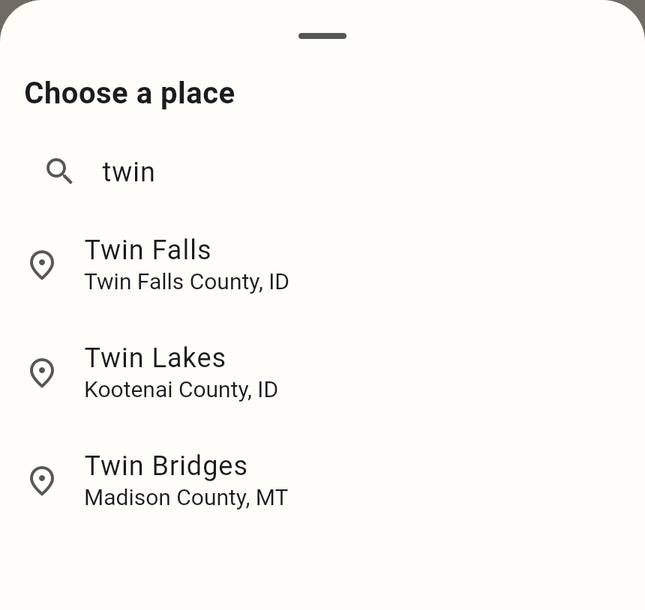
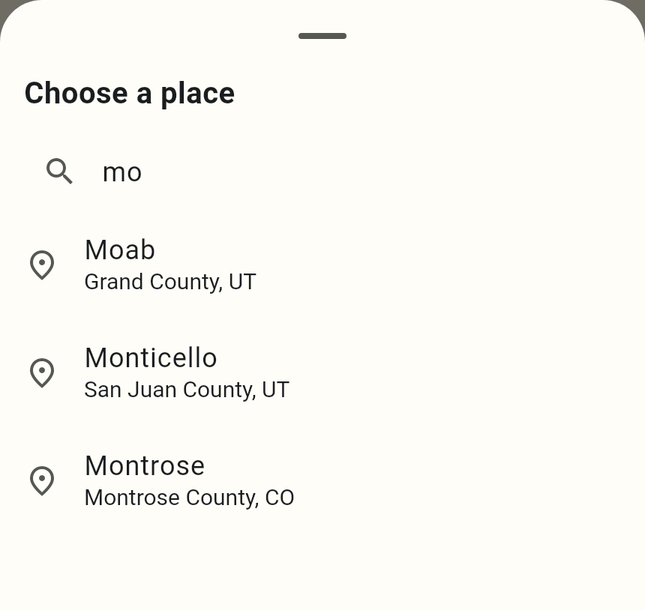
Guide: the eleven map pictures are back in the chapters and in the app
The Maps pictures and the place form's picture, drawn over the real map of
the sample park, are in the app's guide pictures again, and their lines are
back in chapters 1, 2 and 5 (docs and the app's copy). The pictures whose
sample data moved to the park are replaced as well: Home, Home search, the
set up card, the chat list, the navigation answer, weather, the place
chooser, the places list and a place's alert choices.

The rendered maps and their lock file are committed, so a run whose scenes
have not changed asks for no tile. The two ring pictures are drawn over the
directions scene, which is the same map.

Claude-Session: https://claude.ai/code/session_01K18o7Emoc7jpUGguZ4qC7q

diff --git a/app/test_shots/guide_shots_test.dart b/app/test_shots/guide_shots_test.dart
@@ -1508,19 +1508,21 @@ void main() {
     m.r.maps.setFollow(FollowMode.free);
 
     // The ring, with a route shown (so it offers Add stop): the phone is where the drive begins again, the drive is asked for
-    // and the screen fits it into view, as in the directions picture. Then the notebook ring after Save.
+    // and the screen fits it into view. The map then shows what it shows in the directions picture, so these two pictures are
+    // drawn over that scene (if the map ever differs here, its picture no longer matches the scene and the test says so). Then
+    // the notebook ring after Save.
     m.r.location.publish(fixAt(start.lat, start.lon, heading: m.sample.routeStartHeading));
     await settle(tester);
     m.kit.movedTo(GuideCamera(lat: start.lat, lon: start.lon, zoom: 14));
     await tester.runAsync(() => m.nav.openDirections(GuideSample.trailhead));
     await settle(tester);
     await holdMap(tester, m, GuideSample.ringSpot);
-    await mapShot(tester, m, 'map-ring', 'ring');
+    await mapShot(tester, m, 'map-ring', 'directions');
 
     RingMenu ring() => tester.widget<RingMenu>(find.byKey(const ValueKey('ring-menu')));
     ring().onPick(const RingItem(id: 'save', label: 'Save', icon: Icons.book_outlined));
     await settle(tester);
-    await mapShot(tester, m, 'map-notebook-ring', 'notebook-ring');
+    await mapShot(tester, m, 'map-notebook-ring', 'directions');
 
     // Measure: the route is put away, the map is moved to the place card's view, and three points are measured there.
     await tester.tapAt(const Offset(30, 200));

diff --git a/app/assets/guide/chapters/ch2.md b/app/assets/guide/chapters/ch2.md
@@ -315,6 +315,8 @@ To delete all chats, go to ["Settings" > "Cache model and web search" > "Delete 
 
 Search finds a place, town, address or coordinates.
 
+![Map search results](shot:maps-search)
+
 1. Open "Maps".
 2. Tap "Search places or coordinates" and type.
 3. Tap a result. The map moves there and the place card opens.
@@ -328,6 +330,8 @@ The locate button ("Find me") moves the map to you. Tap it again to turn the map
 ## The place card and saving a place
 
 Tap a search result or a place to open its card at the bottom of "Maps".
+
+![A place card](shot:place-card)
 
 The card has:
 - "Directions": a route from where you are;
@@ -347,6 +351,8 @@ Press and hold on the map for the ring menu. It has "Add stop" and "Measure". Se
 
 Directions plan a route from where you are to a place.
 
+![The directions panel](shot:directions-panel)
+
 1. In "Maps", open a place's card. Or press and hold the map and choose "To here".
 2. Tap "Directions".
 3. Choose "Drive", "Walk", "Bike" or "Off-road".
@@ -362,6 +368,8 @@ Road directions work offline if the region is downloaded.
 ## Off-road directions
 
 Off-road plans a route away from roads.
+
+![Off-road directions](shot:directions-offroad)
 
 1. Open a place's card and tap "Directions".
 2. Tap "Off-road".
@@ -382,6 +390,8 @@ Changing a choice plans the route again. Choices reset on restart: "Drive", then
 
 After "Start", Cache guides you turn by turn.
 
+![Following a route](shot:guidance)
+
 - The banner shows the next turn.
 - "Rerouting" means you left the route.
 - Near the end it says "Arriving", then "You have arrived".
@@ -396,6 +406,8 @@ Guidance keeps running with the screen locked. On Android a "Cache navigation" n
 ## Map layers and offline maps
 
 The "Layers" button on the right of "Maps" opens the layers sheet.
+
+![The layers sheet](shot:layers-sheet)
 
 - Switch a layer on or off. Its line says "Downloaded for offline", "Streams when online" or "Needs a connection".
 - Use "Opacity" for a layer laid over the map.

diff --git a/docs/guide/ch2.md b/docs/guide/ch2.md
@@ -315,6 +315,8 @@ To delete all chats, go to ["Settings" > "Cache model and web search" > "Delete 
 
 Search finds a place, town, address or coordinates.
 
+![Map search results](shot:maps-search)
+
 1. Open "Maps".
 2. Tap "Search places or coordinates" and type.
 3. Tap a result. The map moves there and the place card opens.
@@ -328,6 +330,8 @@ The locate button ("Find me") moves the map to you. Tap it again to turn the map
 ## The place card and saving a place
 
 Tap a search result or a place to open its card at the bottom of "Maps".
+
+![A place card](shot:place-card)
 
 The card has:
 - "Directions": a route from where you are;
@@ -347,6 +351,8 @@ Press and hold on the map for the ring menu. It has "Add stop" and "Measure". Se
 
 Directions plan a route from where you are to a place.
 
+![The directions panel](shot:directions-panel)
+
 1. In "Maps", open a place's card. Or press and hold the map and choose "To here".
 2. Tap "Directions".
 3. Choose "Drive", "Walk", "Bike" or "Off-road".
@@ -362,6 +368,8 @@ Road directions work offline if the region is downloaded.
 ## Off-road directions
 
 Off-road plans a route away from roads.
+
+![Off-road directions](shot:directions-offroad)
 
 1. Open a place's card and tap "Directions".
 2. Tap "Off-road".
@@ -382,6 +390,8 @@ Changing a choice plans the route again. Choices reset on restart: "Drive", then
 
 After "Start", Cache guides you turn by turn.
 
+![Following a route](shot:guidance)
+
 - The banner shows the next turn.
 - "Rerouting" means you left the route.
 - Near the end it says "Arriving", then "You have arrived".
@@ -396,6 +406,8 @@ Guidance keeps running with the screen locked. On Android a "Cache navigation" n
 ## Map layers and offline maps
 
 The "Layers" button on the right of "Maps" opens the layers sheet.
+
+![The layers sheet](shot:layers-sheet)
 
 - Switch a layer on or off. Its line says "Downloaded for offline", "Streams when online" or "Needs a connection".
 - Use "Opacity" for a layer laid over the map.

diff --git a/app/assets/guide/chapters/ch5.md b/app/assets/guide/chapters/ch5.md
@@ -122,6 +122,8 @@ You can also save a place from the map. Press and hold the map and choose "Save"
 
 Add place and Edit place are the same screen.
 
+![Editing a place](shot:places-edit)
+
 1. In the Places notebook, tap "Add place". To edit, press and hold a place.
 2. Search an address, place or coordinates, or tap the map to move the pin.
 3. Type a "Name".
@@ -148,6 +150,8 @@ A place with "Weather and alerts" on is watched. Cache keeps weather, alerts and
 ## The map ring menu
 
 Press and hold any spot on the map to open a ring. The center shows the place name and coordinates. Tap outside to close it.
+
+![The ring menu](shot:map-ring)
 
 The wedges are:
 - "To here": directions to the spot.
@@ -182,12 +186,16 @@ A route can have up to 10 stops. Each is listed under the destination with a rem
 3. Read the running total in the bar, in your units.
 4. Tap "Done" to end.
 
+![Measuring on the map](shot:map-measure)
+
 "Undo" removes the last point.
 
 ## Save a spot to a notebook
 
 1. Press and hold the map and choose "Save". The ring shows your notebooks, most used first.
 2. Tap a notebook. Its entry form opens at that spot. For "Places" it is the Add place screen with the pin there.
+
+![The notebook ring](shot:map-notebook-ring)
 
 The ring holds at most six wedges: five notebooks and "More". "More" turns to the next page, for example "2 of 3". Tap the back arrow in the center to go back.
 

diff --git a/docs/guide/ch5.md b/docs/guide/ch5.md
@@ -122,6 +122,8 @@ You can also save a place from the map. Press and hold the map and choose "Save"
 
 Add place and Edit place are the same screen.
 
+![Editing a place](shot:places-edit)
+
 1. In the Places notebook, tap "Add place". To edit, press and hold a place.
 2. Search an address, place or coordinates, or tap the map to move the pin.
 3. Type a "Name".
@@ -148,6 +150,8 @@ A place with "Weather and alerts" on is watched. Cache keeps weather, alerts and
 ## The map ring menu
 
 Press and hold any spot on the map to open a ring. The center shows the place name and coordinates. Tap outside to close it.
+
+![The ring menu](shot:map-ring)
 
 The wedges are:
 - "To here": directions to the spot.
@@ -182,12 +186,16 @@ A route can have up to 10 stops. Each is listed under the destination with a rem
 3. Read the running total in the bar, in your units.
 4. Tap "Done" to end.
 
+![Measuring on the map](shot:map-measure)
+
 "Undo" removes the last point.
 
 ## Save a spot to a notebook
 
 1. Press and hold the map and choose "Save". The ring shows your notebooks, most used first.
 2. Tap a notebook. Its entry form opens at that spot. For "Places" it is the Add place screen with the pin there.
+
+![The notebook ring](shot:map-notebook-ring)
 
 The ring holds at most six wedges: five notebooks and "More". "More" turns to the next page, for example "2 of 3". Tap the back arrow in the center to go back.
 

diff --git a/app/assets/guide/chapters/ch1.md b/app/assets/guide/chapters/ch1.md
@@ -392,6 +392,8 @@ To fix it:
 
 The map has its own location controls.
 
+![The Maps screen](shot:maps-find-me)
+
 1. Open "Maps" and tap the locate button ("Find me").
 2. When Cache asks "Use your location?", tap "Continue".
 3. Allow it in your device's prompt.

diff --git a/docs/guide/ch1.md b/docs/guide/ch1.md
@@ -392,6 +392,8 @@ To fix it:
 
 The map has its own location controls.
 
+![The Maps screen](shot:maps-find-me)
+
 1. Open "Maps" and tap the locate button ("Find me").
 2. When Cache asks "Use your location?", tap "Continue".
 3. Allow it in your device's prompt.
